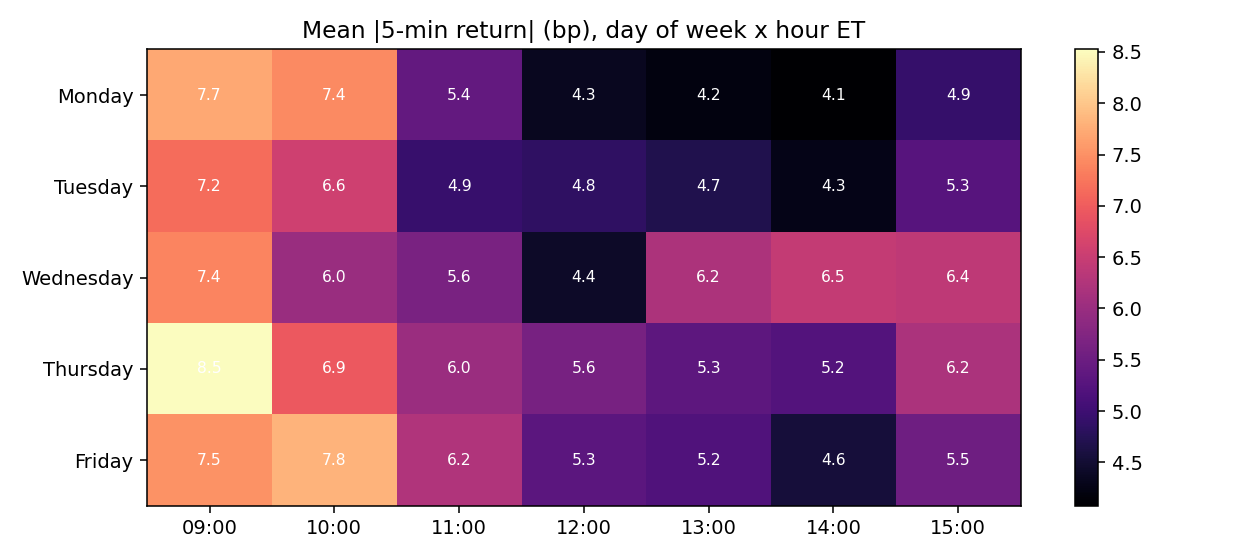
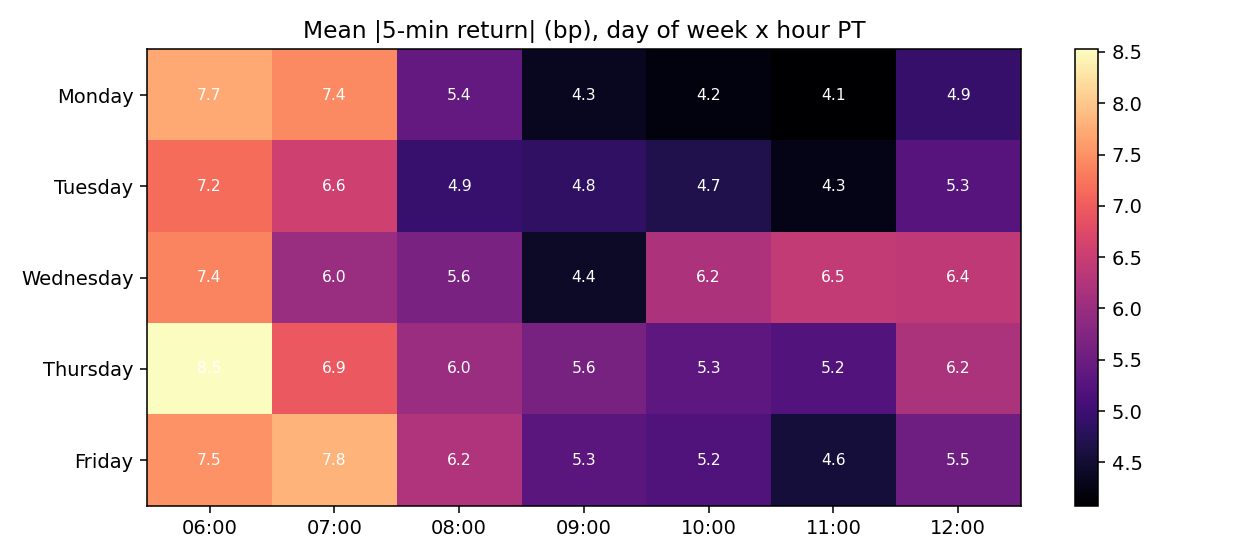
timing tester: Pacific-time labels + dual-tz reading of r17 windows
Windows read as PT land in the afternoon-ET dead zone and are significantly
QUIETER than baseline; only the ET reading (accidentally hitting the open)
shows elevated movement. All charts/CSV now labeled in PT.

diff --git a/src/timing_tester.py b/src/timing_tester.py
@@ -32,7 +32,14 @@ from data_utils import load_minute_closes, ET
 
 RESULTS = Path(__file__).resolve().parent.parent / "results"
 BIG_Q = 0.90  # "big move" = top decile of |5-min return|
-R17_WINDOWS = ["09:45", "10:00", "10:45", "11:20", "13:45", "15:20"]
+
+# Anupam trades on Pacific time (6:30-13:00). The r17 Pine windows are
+# AMBIGUOUS: Pine's time() uses the exchange tz (ET), but the windows may
+# have been derived from PT logs. Test both readings.
+R17_WINDOWS_ET = ["09:45", "10:00", "10:45", "11:20", "13:45", "15:20"]
+# same wall-clock numbers read as PT, mapped to ET (13:45/15:20 PT are
+# after the close and cannot be windows, so only four map):
+R17_WINDOWS_PT_AS_ET = ["12:45", "13:00", "13:45", "14:20"]
 
 
 def five_min_returns(minutes: pd.DataFrame) -> pd.DataFrame:
@@ -48,6 +55,8 @@ def five_min_returns(minutes: pd.DataFrame) -> pd.DataFrame:
            ((t.hour * 60 + t.minute) < 16 * 60) & (t.dayofweek < 5)
     df = df[keep].copy()
     df["bucket"] = df["ts"].dt.strftime("%H:%M")
+    df["bucket_pt"] = df["ts"].dt.tz_convert(
+        "America/Los_Angeles").dt.strftime("%H:%M")
     df["dow"] = df["ts"].dt.day_name()
     return df
 
@@ -87,40 +96,47 @@ def main() -> None:
     with pd.option_context("display.float_format", "{:.3f}".format):
         print(sig[["n", "vol_bp", "big_freq", "p_raw"]].to_string())
 
-    # ---- pre-registered group test: the six r17 windows -----------------
-    r17 = df[df["bucket"].isin(R17_WINDOWS)]
-    rest = df[~df["bucket"].isin(R17_WINDOWS)]
-    k, n = int(r17["big"].sum()), len(r17)
-    p_group = stats.binomtest(k, n, base).pvalue
-    print(f"\nr17 window group: {n} obs, big-move freq "
-          f"{k/n:.3f} vs baseline {base:.3f} (p={p_group:.4f})")
-    print(f"r17 window mean |ret|: {r17['ret'].abs().mean()*1e4:.2f} bp "
-          f"vs rest {rest['ret'].abs().mean()*1e4:.2f} bp "
-          f"(Mann-Whitney p={stats.mannwhitneyu(r17['ret'].abs(), rest['ret'].abs()).pvalue:.4f})")
+    # ---- pre-registered group tests: r17 windows, both tz readings ------
+    for label, wins in [("read as ET (what Pine tested)", R17_WINDOWS_ET),
+                        ("read as PT (Anupam's clock)", R17_WINDOWS_PT_AS_ET)]:
+        r17 = df[df["bucket"].isin(wins)]
+        rest = df[~df["bucket"].isin(wins)]
+        k, n = int(r17["big"].sum()), len(r17)
+        p_group = stats.binomtest(k, n, base).pvalue
+        mw = stats.mannwhitneyu(r17["ret"].abs(), rest["ret"].abs()).pvalue
+        print(f"\nr17 windows {label}: {n} obs, big-move freq "
+              f"{k/n:.3f} vs baseline {base:.3f} (p={p_group:.4f}); "
+              f"mean |ret| {r17['ret'].abs().mean()*1e4:.2f} bp vs rest "
+              f"{rest['ret'].abs().mean()*1e4:.2f} bp (MW p={mw:.4f})")
 
+    pt_map = df.drop_duplicates("bucket").set_index("bucket")["bucket_pt"]
+    per["bucket_pt"] = pt_map.reindex(per.index)
     per.to_csv(RESULTS / "timing_buckets.csv")
 
     # ---- plots -----------------------------------------------------------
     fig, axes = plt.subplots(2, 1, figsize=(13, 9), sharex=False)
     x = np.arange(len(per))
-    colors = ["#c0392b" if b in R17_WINDOWS else ("#2980b9" if s else "#95a5a6")
+    colors = ["#c0392b" if b in R17_WINDOWS_ET
+              else ("#2980b9" if s else "#95a5a6")
               for b, s in zip(per.index, per["signif"])]
     axes[0].bar(x, per["vol_bp"], color=colors)
     axes[0].set_title("SPY realized vol by 5-min bucket (bp per 5 min) — "
-                      "red = r17 windows, blue = significant big-move buckets")
+                      "red = r17 windows (ET reading), "
+                      "blue = significant big-move buckets")
     axes[0].axhline(per["vol_bp"].median(), ls="--", c="k", lw=0.8)
     axes[1].bar(x, per["big_freq"] * 100, color=colors)
     axes[1].axhline(10, ls="--", c="k", lw=0.8, label="10% baseline")
     axes[1].set_title("Big-move frequency by bucket (%)")
     axes[1].legend()
+    ticklab = [f"{pt} PT" for pt in per["bucket_pt"][::6]]
     for ax in axes:
         ax.set_xticks(x[::6])
-        ax.set_xticklabels(per.index[::6], rotation=45)
+        ax.set_xticklabels(ticklab, rotation=45)
     fig.tight_layout()
     fig.savefig(RESULTS / "timing_profile.png", dpi=140)
 
     # day-of-week x hour heat map of mean |ret|
-    df["hour"] = df["ts"].dt.strftime("%H:00")
+    df["hour"] = df["ts"].dt.tz_convert("America/Los_Angeles").dt.strftime("%H:00")
     pivot = df.pivot_table(index="dow", columns="hour", values="ret",
                            aggfunc=lambda s: s.abs().mean()) * 1e4
     order = ["Monday", "Tuesday", "Wednesday", "Thursday", "Friday"]
@@ -133,7 +149,7 @@ def main() -> None:
         for j in range(pivot.shape[1]):
             ax2.text(j, i, f"{pivot.values[i, j]:.1f}", ha="center",
                      va="center", color="w", fontsize=8)
-    ax2.set_title("Mean |5-min return| (bp), day of week x hour ET")
+    ax2.set_title("Mean |5-min return| (bp), day of week x hour PT")
     fig2.colorbar(im)
     fig2.tight_layout()
     fig2.savefig(RESULTS / "timing_heatmap.png", dpi=140)

diff --git a/README.md b/README.md
@@ -12,12 +12,23 @@ from hope.**
 Tested on 23,087 non-overlapping 5-min returns over 302 sessions
 (Aug 2024 – Nov 2025), `src/timing_tester.py`:
 
+All times below in Anupam's clock (Pacific); market = 06:30–13:00 PT.
+
 - Big moves (top-decile |5-min return|) cluster **hard** at the open
-  (09:35–10:00, up to 21.5% frequency vs 10% baseline) and the close
-  (15:50–15:55), Bonferroni-significant. 10:25 also clears the bar.
-- The six r17 windows as a pre-registered group: 12.3% big-move frequency vs
-  10% baseline (p=0.002). Real but modest, and driven almost entirely by the
-  09:45 and 10:00 windows; 11:20 and 13:45 add nothing.
+  (06:35–07:00 PT, up to 21.5% frequency vs 10% baseline) and the close
+  (12:50–12:55 PT), Bonferroni-significant. 07:25 PT also clears the bar.
+- The six r17 windows read as **ET** (what Pine's `time()` actually tested):
+  12.3% big-move frequency vs 10% (p=0.002), driven almost entirely by the
+  9:45/10:00 ET (= 06:45/07:00 PT) windows.
+- The same window numbers read as **PT** (if they were derived from the
+  hand-logged Pacific-time xlsx): they land in the early-afternoon-ET dead
+  zone and are significantly QUIETER than baseline (7.9% big-move frequency,
+  p=0.016; mean |ret| below the rest of the day). Under this reading the
+  window list is actively counterproductive.
+- TIMEZONE ACTION ITEM: r17's `time()` windows run in exchange time (ET).
+  If the windows were meant as PT, the script has been trading different
+  times of day than intended. Either way, the only windows worth keeping are
+  the open (06:35–07:00 PT) and the close (12:50–12:55 PT).
 - **This is the textbook intraday volatility U-shape. Market makers price it
   into 0DTE options. Elevated realized movement is NOT an edge until shown to
   exceed what the options market charges for it at those times — that test
